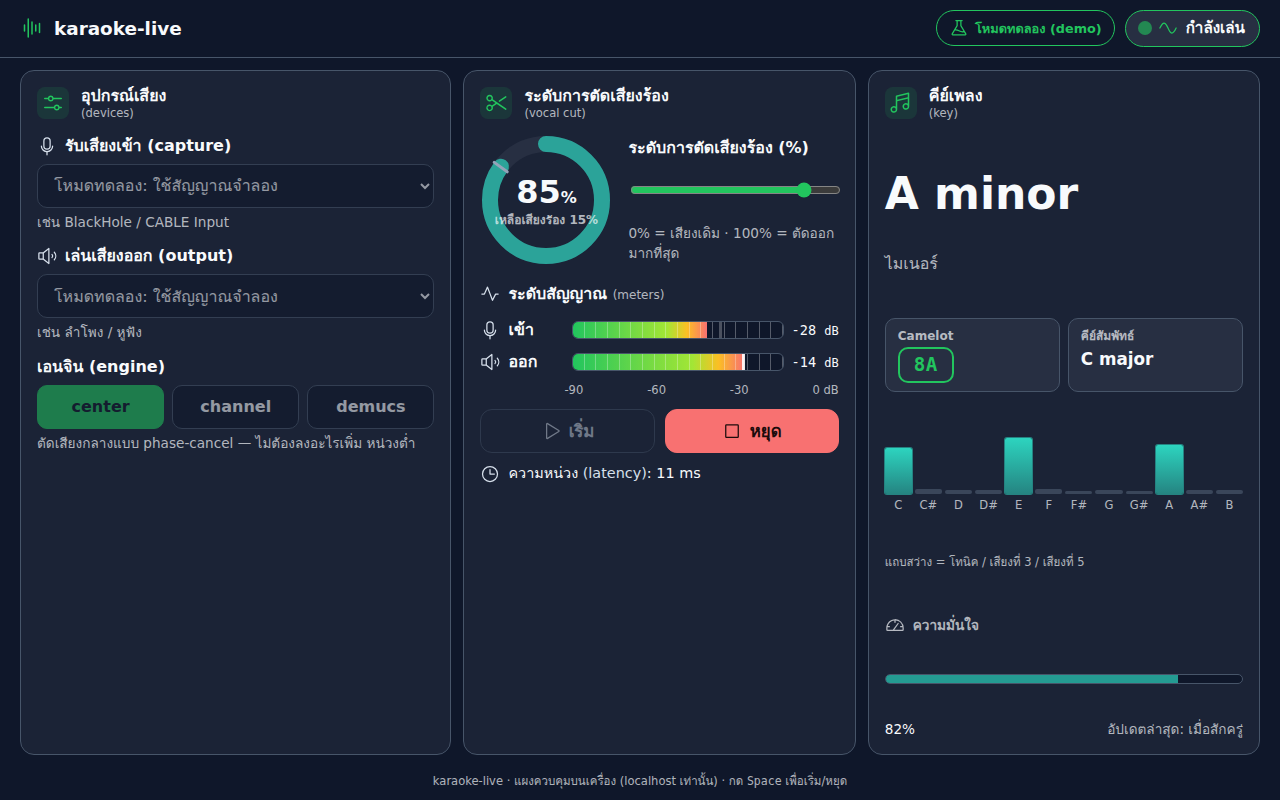
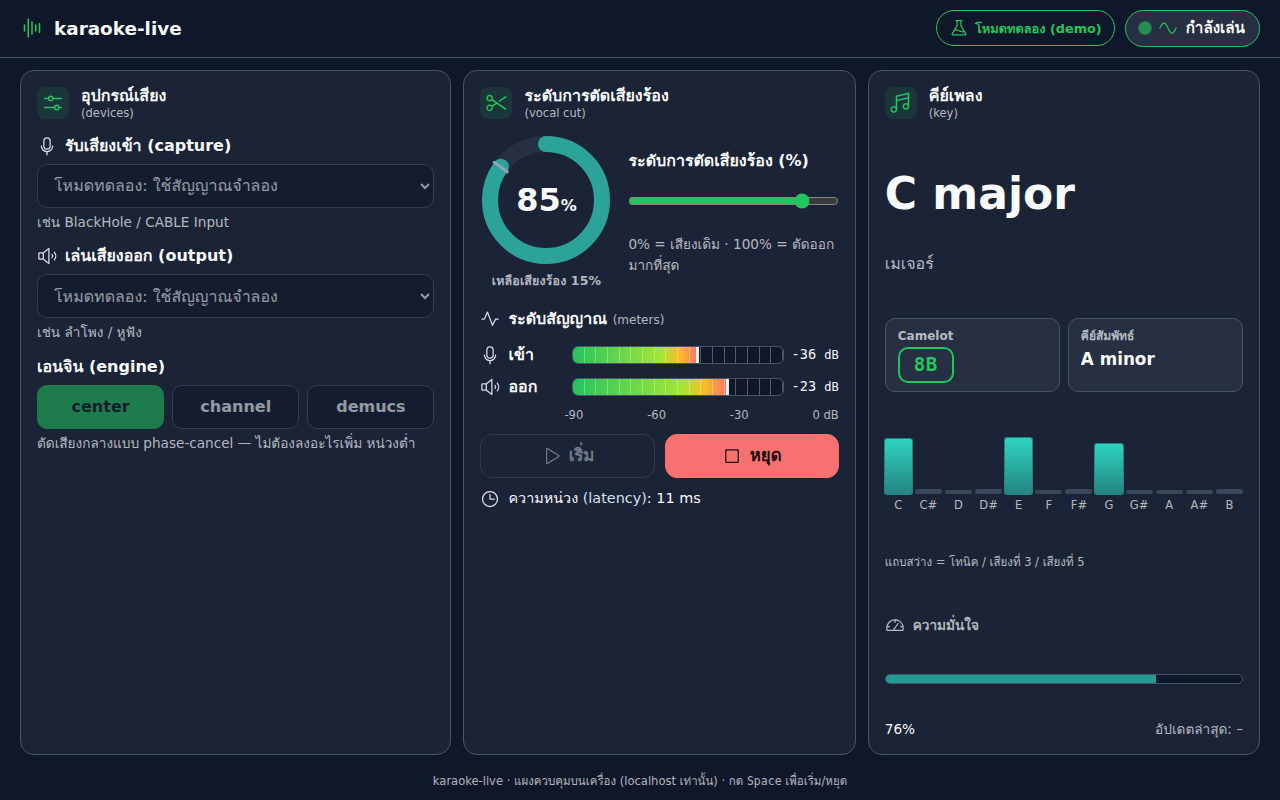
fix(ui): stop the remaining-vocal caption overflowing the ring
The 'เหลือเสียงร้อง 15%' line lived inside the 132 px ring and spilled past
its edges. It is now a caption under the ring (.ring-col), nowrap, 0.78rem,
tabular numerals.

Also fixes the layout holes found by an overflow audit across five widths:
the breakpoint moves from 759 to 819 px so the key card can no longer sit
outside the viewport at 760-818 px, the header wraps under 430 px, the range
input loses its default margin (the 4 px scrollWidth delta), and vocal-wrap
gets min-width:0. Audited at 1280/900/820/760/390: no horizontal scroll and no
element wider than its box.

diff --git a/karaokelive/web/index.html b/karaokelive/web/index.html
@@ -104,7 +104,7 @@ select:disabled{opacity:.55; cursor:not-allowed}
 .seg button:active{transform:scale(.98)}
 .seg button[aria-pressed="true"]{background:var(--accent); color:var(--on-accent); border-color:var(--accent)}
 .seg button:disabled{opacity:.55; cursor:not-allowed}
-.vocal-wrap{display:flex; align-items:center; gap:16px}
+.vocal-wrap{display:flex; align-items:center; gap:16px; min-width:0; max-width:100%}
 .ring{position:relative; width:132px; height:132px; flex:none}
 .ring svg{transform:rotate(-90deg)}
 .ring .pct{
@@ -112,9 +112,11 @@ select:disabled{opacity:.55; cursor:not-allowed}
   align-items:center; justify-content:center; line-height:1.2;
   font-size:2rem; font-weight:700; font-variant-numeric:tabular-nums;
 }
-.ring .pct .remain{font-size:.75rem; font-weight:600; color:var(--fg-70); margin-top:2px}
+.ring-col{display:flex; flex-direction:column; align-items:center; gap:6px; flex:none; max-width:100%}
+.remain{font-size:.78rem; font-weight:600; color:var(--fg-70); white-space:nowrap; text-align:center;
+  font-variant-numeric:tabular-nums; letter-spacing:.01em}
 .vocal-ctl{flex:1; min-width:0}
-input[type="range"]{width:100%; min-height:44px; accent-color:var(--accent); cursor:pointer}
+input[type="range"]{width:100%; max-width:100%; min-height:44px; margin:0; accent-color:var(--accent); cursor:pointer}
 .sub-head{display:flex; align-items:center; gap:8px; margin:16px 0 12px; font-size:1rem; font-weight:600; color:var(--fg)}
 .sub-head svg{flex:none; color:var(--muted-fg)}
 .sub-head .en{font-size:.75rem; font-weight:400; color:var(--fg-70)}
@@ -192,10 +194,15 @@ input[type="range"]{width:100%; min-height:44px; accent-color:var(--accent); cur
 #error.show{display:block}
 footer{padding:6px 20px 10px; color:var(--fg-70); font-size:.72rem; text-align:center; flex:none}
 .key-card{justify-content:space-between}
-@media (max-width:759px){
+@media (max-width:819px){
   body{height:auto; overflow:auto}
   main{grid-template-columns:1fr; overflow:visible}
   .key-big{font-size:2.4rem}
+  .vocal-wrap{flex-wrap:wrap; justify-content:center}
+}
+@media (max-width:430px){
+  header{flex-wrap:wrap; row-gap:8px}
+  .vocal-wrap{gap:12px}
 }
 @media (prefers-reduced-motion:reduce){
   *,*::before,*::after{transition:none !important; animation:none !important}
@@ -257,6 +264,7 @@ footer{padding:6px 20px 10px; color:var(--fg-70); font-size:.72rem; text-align:c
       <h2 id="h-mix">ระดับการตัดเสียงร้อง <span class="en" lang="en">(vocal cut)</span></h2>
     </div>
     <div class="vocal-wrap">
+      <div class="ring-col">
       <div class="ring" aria-hidden="true">
         <svg width="132" height="132" viewBox="0 0 132 132">
           <circle cx="66" cy="66" r="56" fill="none" stroke="#272F42" stroke-width="16"/>
@@ -266,7 +274,9 @@ footer{padding:6px 20px 10px; color:var(--fg-70); font-size:.72rem; text-align:c
             <title>85% mono-guard default</title>
           </line>
         </svg>
-        <div class="pct"><span><span id="vocalPct">85</span><span style="font-size:1rem">%</span></span><span class="remain">เหลือเสียงร้อง <span id="vocalRemain">15</span>%</span></div>
+        <div class="pct"><span><span id="vocalPct">85</span><span style="font-size:1rem">%</span></span></div>
+      </div>
+      <div class="remain">เหลือเสียงร้อง <span id="vocalRemain">15</span>%</div>
       </div>
       <div class="vocal-ctl">
         <label for="vocal">ระดับการตัดเสียงร้อง (%)</label>
